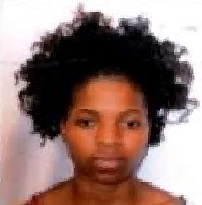
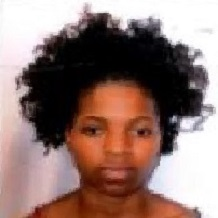
resized the images to 218px x 218px, modified location of call to student from home.ejs

diff --git a/server.js b/server.js
@@ -37,7 +37,7 @@ app.get('/insert', function(req, res){
 	// res.json(req.query);
 
 	if (req.query.pres_name.length > 1){
-		connection.query('INSERT INTO students (student_name) VALUES (?)', [req.query.pres_name], function (error, results, fields) {
+		connection.query('INSERT INTO students (student_name) VALUES (?)', [req.query.students_name], function (error, results, fields) {
 		  if (error) res.send(error)
 		  else res.redirect('/');
 		});
